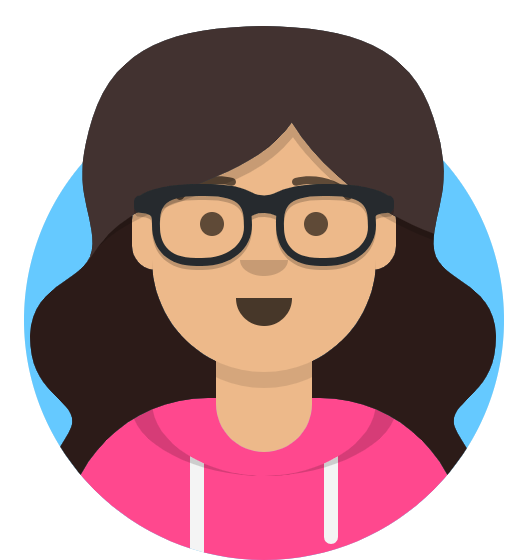
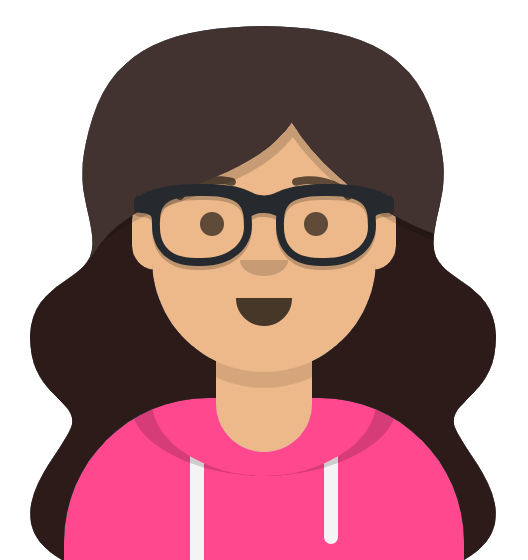
changes

Changed region(s): [[0.5455, 0.2732, 0.9697, 1.0], [0.0303, 0.3036, 0.4545, 1.0]]

diff --git a/index.html b/index.html
@@ -38,7 +38,7 @@
         <header class="masthead bg-primary text-white text-center">
             <div class="container d-flex align-items-center flex-column">
                 <!-- Masthead Avatar Image-->
-                <img class="masthead-avatar rounded mb-5" src="assets/img/avataaars (1).png" alt="" />
+                <img class="masthead-avatar rounded mb-5" src="assets/img/avataaars.png" alt="" />
                 <!-- Masthead Heading-->
                 <h1 class="masthead-heading text-uppercase mb-0">Rakshaa Viswanathan</h1>
                 <!-- Icon Divider-->
